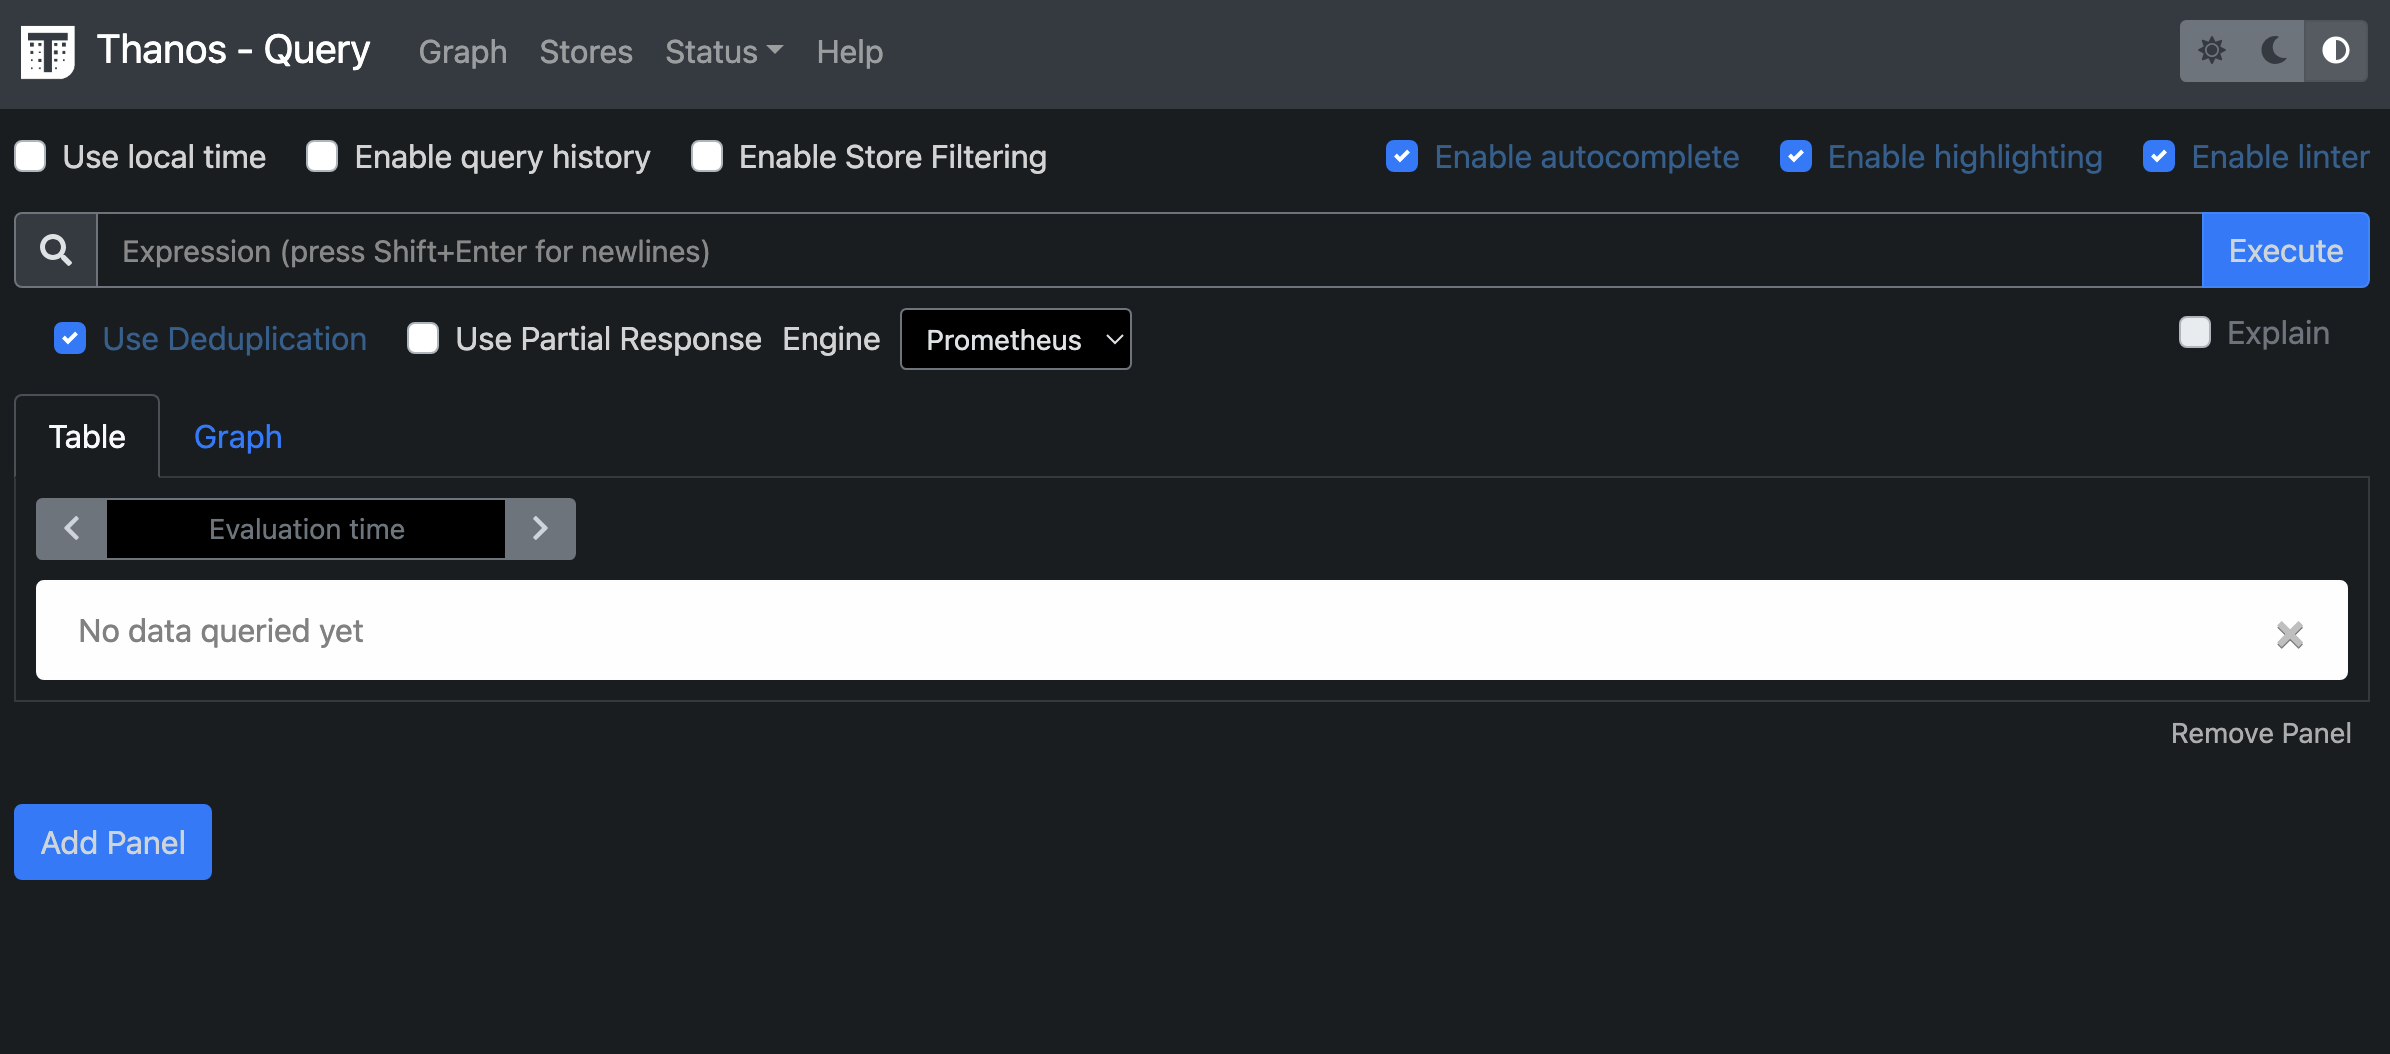
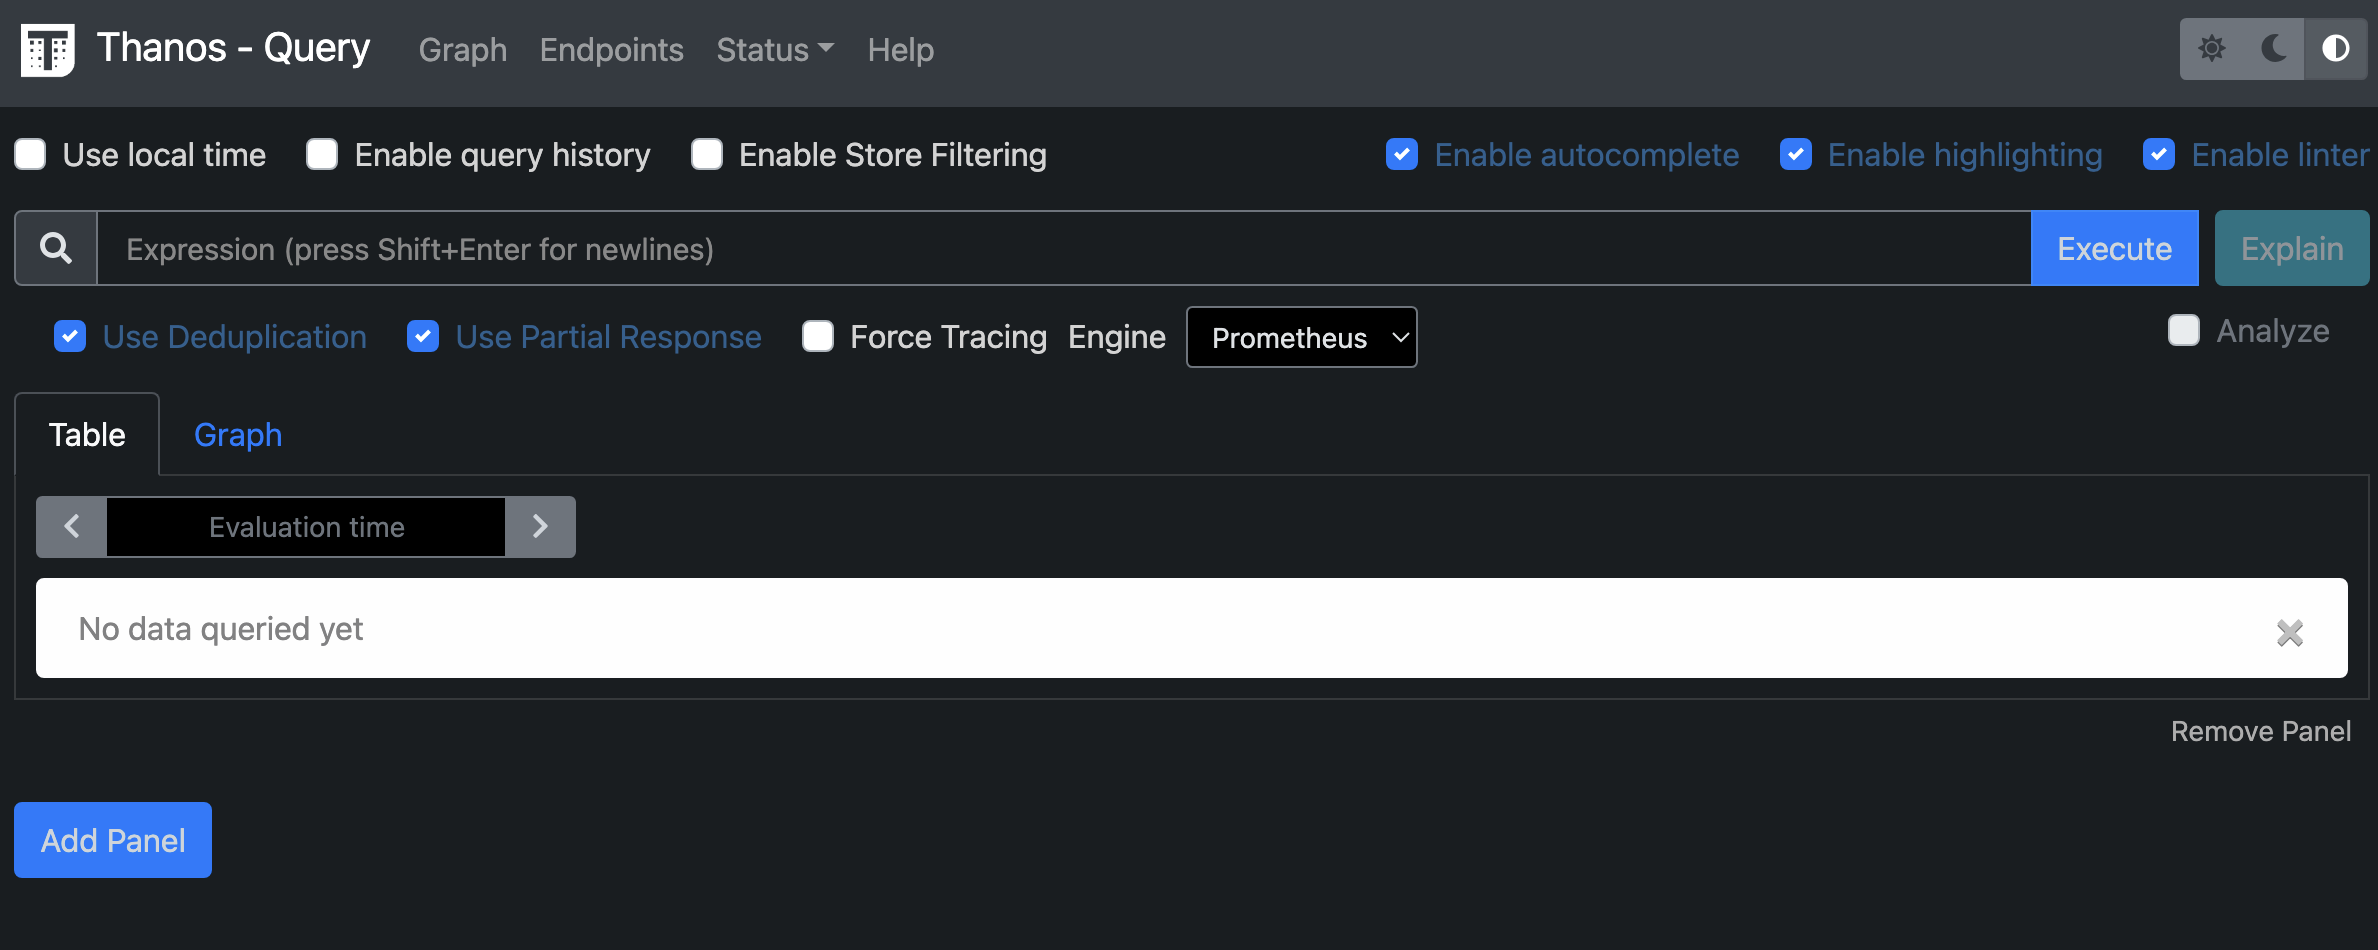
update

Changed region(s): [[0.0, 0.0, 1.0, 0.9463], [0.9024, 0.7632, 0.9958, 0.7937]]

diff --git a/articles/thanos-deep-dive.md b/articles/thanos-deep-dive.md
@@ -92,30 +92,75 @@ When a query comes in asking, "I want to see data from the past month":
 
 ## 4. Hands-on: Local Demo with Docker Compose
 
-Since Thanos has many components and requires S3, running single binaries locally is difficult.
-It is standard practice to launch the whole set using Docker Compose with a pseudo-S3 (MinIO).
+Running Thanos locally as a standalone binary is difficult because it involves many components and requires S3. The standard approach is to use Docker Compose to launch the entire suite alongside a pseudo-S3 (MinIO).
 
-### Step 1: Create `docker-compose.yaml`
+This time, we will use the latest **Prometheus v3.9.1** and **Thanos v0.40.1** to create a fully functional configuration.
 
-Create a file with the following configuration.
+### Step 1: Create Configuration Files
+
+First, create a working directory and prepare the following three configuration files.
+
+#### 1. `prometheus.yml`
+
+`external_labels` are mandatory so that the Thanos Sidecar can identify the data.
+
+```yaml
+global:
+  scrape_interval: 5s
+  external_labels:
+    monitor: 'prom-1'
+    cluster: 'test-cluster'
+
+scrape_configs:
+  - job_name: 'prometheus'
+    static_configs:
+      - targets: ['localhost:9090']
+
+```
+
+#### 2. `bucket_config.yaml`
+
+This contains the connection information for MinIO (S3-compatible storage).
+
+```yaml
+type: S3
+config:
+  bucket: "thanos"
+  endpoint: "minio:9000"
+  insecure: true
+  access_key: "minio"
+  secret_key: "melovethanos"
+```
+
+#### 3. `docker-compose.yaml`
+
+To avoid permission-related troubles, we will configure this to run with `user: root`. We use the `mc` container to automatically create the bucket.
 
 ```yaml
 version: '3.7'
 
 services:
-  # 1. Prometheus with Sidecar
+  # 1. Prometheus
   prometheus:
-    image: prom/prometheus:v2.45.0
+    image: prom/prometheus:v3.9.1
+    container_name: prometheus
     volumes:
       - ./prometheus.yml:/etc/prometheus/prometheus.yml
+      - prometheus_data:/prometheus
     command:
       - --config.file=/etc/prometheus/prometheus.yml
       - --storage.tsdb.min-block-duration=2h
-      - --storage.tsdb.max-block-duration=2h # Fixed for Upload
+      - --storage.tsdb.max-block-duration=2h
       - --web.enable-lifecycle
+      - --web.enable-admin-api
+    ports:
+      - "9090:9090"
 
+  # 2. Thanos Sidecar (Upload & Proxy)
   sidecar:
-    image: thanosio/thanos:v0.32.2
+    image: thanosio/thanos:v0.40.1
+    container_name: sidecar
+    user: root
     command:
       - sidecar
       - --tsdb.path=/prometheus
@@ -123,53 +168,86 @@ services:
       - --objstore.config-file=/etc/thanos/bucket_config.yaml
     volumes:
       - ./bucket_config.yaml:/etc/thanos/bucket_config.yaml
+      - prometheus_data:/prometheus
     depends_on:
       - minio
+      - prometheus
 
-  # 2. Object Storage (MinIO)
+  # 3. Object Storage (MinIO)
   minio:
     image: minio/minio
+    container_name: minio
     environment:
       MINIO_ROOT_USER: minio
       MINIO_ROOT_PASSWORD: melovethanos
-    command: server /data
+    command: server /data --console-address ":9001"
     ports:
       - "9000:9000"
+      - "9001:9001"
 
-  # 3. Thanos Store Gateway
-  store:
-    image: thanosio/thanos:v0.32.2
-    command:
-      - store
-      - --objstore.config-file=/etc/thanos/bucket_config.yaml
+  # Bucket Creator (One-shot)
+  mc:
+    image: minio/mc
+    container_name: mc
     depends_on:
       - minio
+    entrypoint: >
+      /bin/sh -c "
+      /usr/bin/mc alias set myminio http://minio:9000 minio melovethanos;
+      /usr/bin/mc mb myminio/thanos;
+      exit 0;
+      "
 
-  # 4. Thanos Querier
-  querier:
-    image: thanosio/thanos:v0.32.2
+  # 4. Thanos Store Gateway (Historical Data Access)
+  store:
+    image: thanosio/thanos:v0.40.1
+    container_name: store
+    user: root
+    command:
+      - store
+      - --data-dir=/data
+      - --objstore.config-file=/etc/thanos/bucket_config.yaml
+      - --grpc-address=0.0.0.0:10901
+      - --http-address=0.0.0.0:10902
+    volumes:
+      - ./bucket_config.yaml:/etc/thanos/bucket_config.yaml
+      - store_data:/data
+    depends_on:
+      - minio
     ports:
       - "10902:10902"
+
+  # 5. Thanos Querier (Global View)
+  querier:
+    image: thanosio/thanos:v0.40.1
+    container_name: querier
     command:
       - query
-      - --store=sidecar:10901
-      - --store=store:10901
+      - --endpoint=sidecar:10901
+      - --endpoint=store:10901
+    ports:
+      - "9091:10902"
+    depends_on:
+      - sidecar
+      - store
 
+volumes:
+  prometheus_data:
+  store_data:
 ```
 
-*(Note: The contents of the configuration file are omitted for simplicity, but connection information to MinIO is described in `bucket_config.yaml`)*
-
-### Step 2: Start and Verify
+### Step 2: Startup and Verification
 
 ```bash
 docker-compose up -d
-
 ```
 
-After startup, access `http://localhost:10902` (Thanos Querier), and you will see a UI similar to Prometheus.
-By checking **"Use Deduplication"** here, you can experience Thanos's powerful deduplication feature.
+After startup, access `http://localhost:9091` (Thanos Querier), and a UI similar to Prometheus will appear.
+To check the status of the Store API, click **Stores** in the top menu. Both the Sidecar and the Store Gateway should be marked as "UP".
 
-![thanos example](./assets/thanos/thanos-handson.png)
+With this, the complete stack of "Prometheus (Latest) + MinIO (Past) + Thanos (Unified)" is now running in your local environment.
+
+![handson](./assets/thanos/thanos-handson.png)
 
 ---
 
